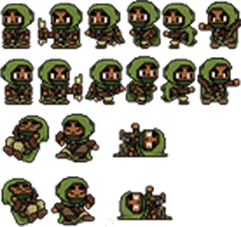
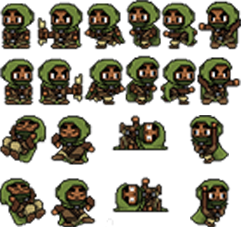
floor enemy pushbacks

diff --git a/NinJump/Motor2D/j1Enemy_Walker.cpp b/NinJump/Motor2D/j1Enemy_Walker.cpp
@@ -15,9 +15,32 @@
 j1Enemy_Walker::j1Enemy_Walker(iPoint position, Type type) : j1Entity(position, type) {
 
 	collider = App->collision->AddCollider({ position.x, position.y,70,70 }, COLLIDER_ENEMY, this); 
-	tex = App->tex->Load("Maps/Ninja/Ninja.png");
+	tex = App->tex->Load("Maps/Enemies/Floor/floor_enemy.png");
 	animation = &Idle;
-	Idle.PushBack({ 30, 2, 35, 45 });  // width and height now are 35 and 45
+	Iddle_Left.PushBack({ 0, 0, 35, 49 });
+	Iddle_Left.PushBack({ 37, 0, 46, 49 });
+	Walking_Left.PushBack({ 84, 0, 42, 49 });
+	Walking_Left.PushBack({ 126, 0, 35, 49 });
+	Walking_Left.PushBack({ 162, 0, 36, 49 });
+	Pushing_Left.PushBack({ 198, 0, 43, 49 });
+
+	Iddle_Right.PushBack({ 0, 56, 35, 49 });
+	Iddle_Right.PushBack({ 37, 56, 46, 49 });
+	Walking_Right.PushBack({ 84, 56, 42, 49 });
+	Walking_Right.PushBack({ 126, 56, 35, 49 });
+	Walking_Right.PushBack({ 162, 56, 36, 49 });
+	Pushing_Right.PushBack({ 198, 56, 43, 49 });
+
+	Kicked_Left.PushBack({ 0, 115, 46, 49 });
+	Kicked_Left.PushBack({ 50, 115, 45, 49 });
+	Kicked_Left.PushBack({ 113, 115, 56, 34 });
+
+	Kicked_Right.PushBack({ 0, 178, 46, 49 });
+	Kicked_Right.PushBack({ 50, 178, 45, 49 });
+	Kicked_Right.PushBack({ 113, 178, 56, 34 });
+
+	Falling_Left.PushBack({ 189, 115, 40, 49 });
+	Falling_Right.PushBack({ 190, 178, 40, 49 });
 
 	dir_multiplier = 10;
 

diff --git a/NinJump/Motor2D/j1Enemy_Walker.h b/NinJump/Motor2D/j1Enemy_Walker.h
@@ -26,8 +26,15 @@ public:
 	bool Save(pugi::xml_node& node) const;
 private:
 
-	Animation Idle;
-	
+	Animation Iddle_Left;
+	Animation Walking_Left;
+	Animation Pushing_Left;
+	Animation Iddle_Right;
+	Animation Walking_Right;
+	Animation Kicked_Left;
+	Animation Kicked_Right;
+	Animation Falling_Left;
+	Animation Falling_Right;
 
 	bool Onplat = false;
 	uint Gravity = 10;
